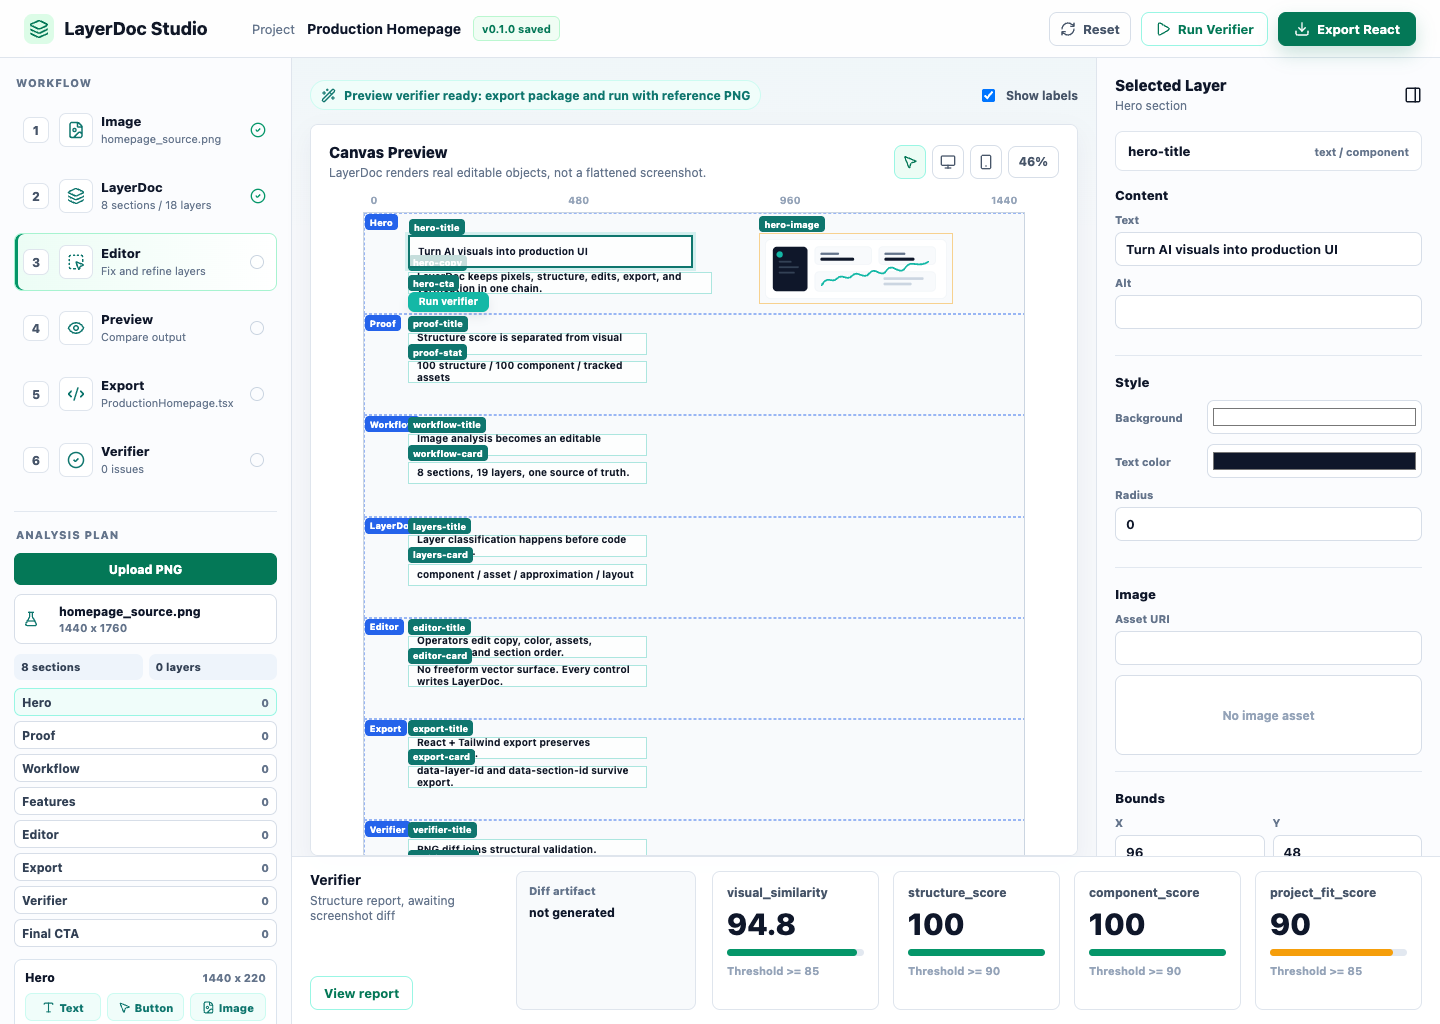
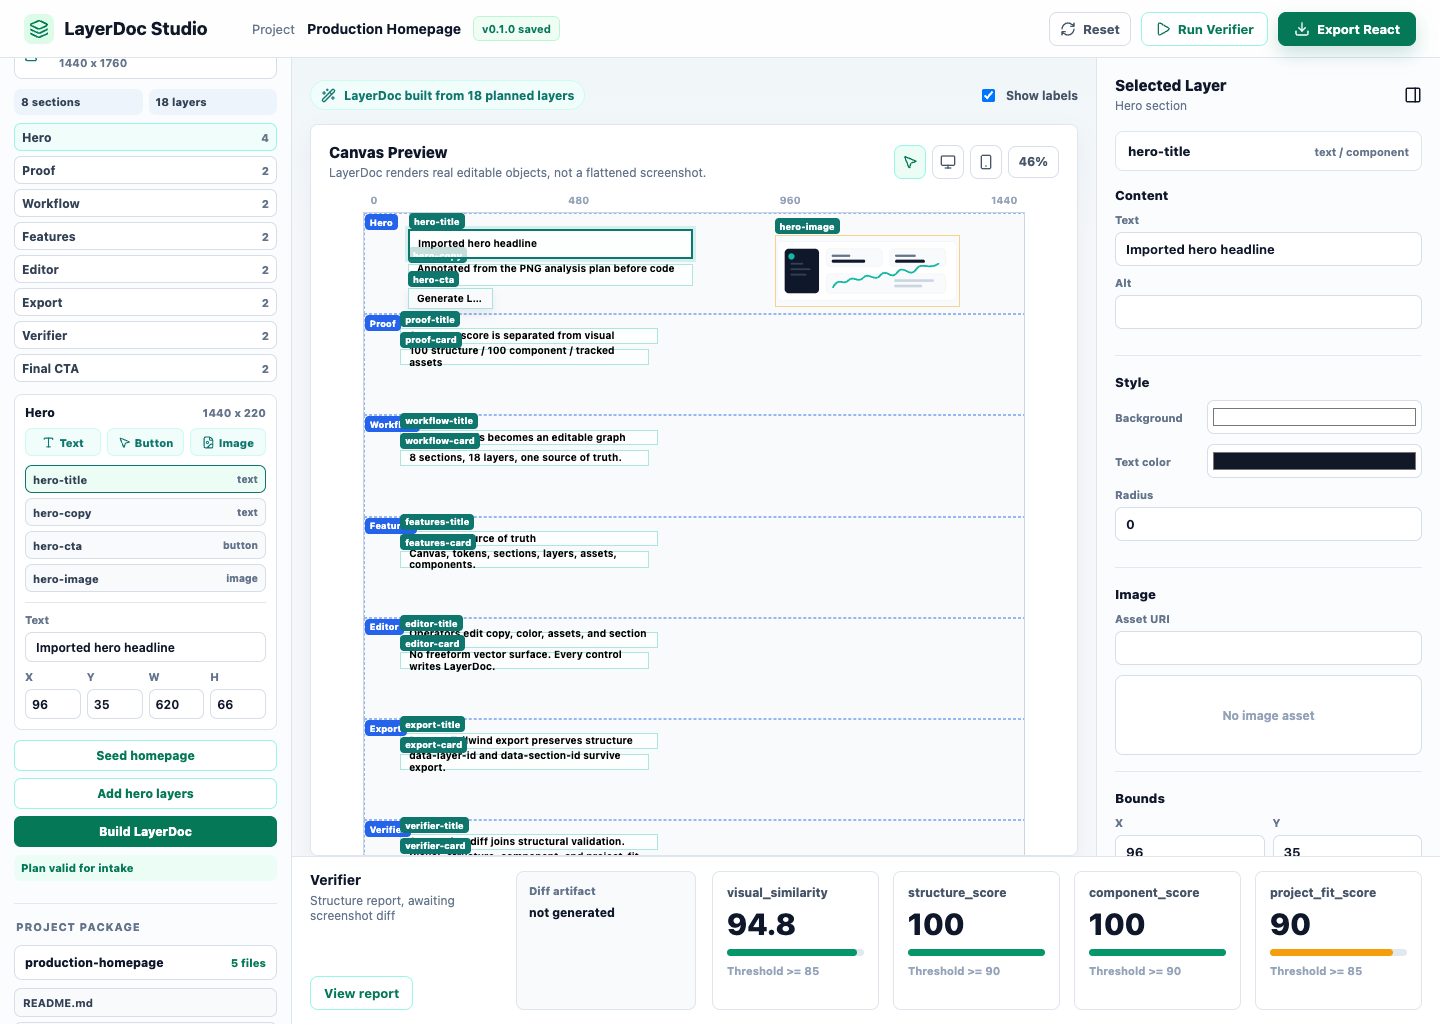
Add full homepage annotation seeding

diff --git a/src/app/intakeWorkspace.ts b/src/app/intakeWorkspace.ts
@@ -181,6 +181,85 @@ function createManualLayer(plan: HomepageAnalysisPlan, sectionId: string, kind: 
   };
 }
 
+function seededSectionCopy(sectionId: string, sectionName: string): { title: string; detail: string; detailKind?: ManualAnalysisLayerKind } {
+  const copy: Record<string, { title: string; detail: string; detailKind?: ManualAnalysisLayerKind }> = {
+    proof: {
+      title: "Structure score is separated from visual",
+      detail: "100 structure / 100 component / tracked assets"
+    },
+    workflow: {
+      title: "Image analysis becomes an editable graph",
+      detail: "8 sections, 18 layers, one source of truth."
+    },
+    features: {
+      title: "LayerDoc source of truth",
+      detail: "Canvas, tokens, sections, layers, assets, components."
+    },
+    editor: {
+      title: "Operators edit copy, color, assets, and section order.",
+      detail: "No freeform vector surface. Every control writes LayerDoc."
+    },
+    export: {
+      title: "React + Tailwind export preserves structure",
+      detail: "data-layer-id and data-section-id survive export."
+    },
+    verifier: {
+      title: "Screenshot diff joins structural validation.",
+      detail: "Visual, structure, component, and project-fit scores."
+    },
+    "final-cta": {
+      title: "Turn the approved visual into a project package.",
+      detail: "Export React",
+      detailKind: "button"
+    }
+  };
+
+  return copy[sectionId] ?? {
+    title: `${sectionName} becomes editable`,
+    detail: "Classified layer ready for LayerDoc export."
+  };
+}
+
+function seededSectionLayer(plan: HomepageAnalysisPlan, sectionId: string, kind: "title" | "detail"): PngIntakeLayerPlan {
+  const section = sectionById(plan, sectionId);
+  const copy = seededSectionCopy(sectionId, section.name);
+  const gutter = Math.min(80, Math.max(24, Math.round(section.bounds.width * 0.055)));
+  const titleBounds = clampRectToSection(
+    {
+      x: section.bounds.x + gutter,
+      y: section.bounds.y + Math.min(36, Math.max(14, Math.round(section.bounds.height * 0.14))),
+      width: Math.min(560, section.bounds.width - gutter * 2),
+      height: 34
+    },
+    section.bounds
+  );
+  const detailBounds = clampRectToSection(
+    {
+      x: titleBounds.x,
+      y: titleBounds.y + titleBounds.height + 10,
+      width: kind === "detail" && copy.detailKind === "button" ? Math.min(184, titleBounds.width) : Math.min(540, titleBounds.width),
+      height: kind === "detail" && copy.detailKind === "button" ? 44 : 36
+    },
+    section.bounds
+  );
+
+  if (kind === "title") {
+    return {
+      id: `${sectionId}-title`,
+      kind: "text",
+      bounds: titleBounds,
+      text: copy.title
+    };
+  }
+
+  return {
+    id: `${sectionId}-${copy.detailKind === "button" ? "button" : "card"}`,
+    kind: copy.detailKind ?? "text",
+    bounds: detailBounds,
+    text: copy.detail
+  };
+}
+
 function toManifest(intake: IntakeWorkspace): ImageAnalysisManifest {
   return {
     name: intake.analysisPlan.name,
@@ -289,6 +368,22 @@ export function addHeroAnnotationSet(workspace: IntakeWorkspace): IntakeWorkspac
   });
 
   return materialize(workspace.sourceImage, plan, sectionId, "hero-title");
+}
+
+export function seedHomepageAnnotations(workspace: IntakeWorkspace): IntakeWorkspace {
+  let next = addHeroAnnotationSet(workspace);
+  let plan = next.analysisPlan;
+
+  for (const section of plan.sections) {
+    if (section.id === "hero") {
+      continue;
+    }
+
+    plan = addLayerIfMissing(plan, section.id, seededSectionLayer(plan, section.id, "title"));
+    plan = addLayerIfMissing(plan, section.id, seededSectionLayer(plan, section.id, "detail"));
+  }
+
+  return materialize(workspace.sourceImage, plan, "hero", "hero-title");
 }
 
 export function buildWorkspaceFromIntake(workspace: IntakeWorkspace): EditorWorkspace {

diff --git a/src/app/App.tsx b/src/app/App.tsx
@@ -38,6 +38,7 @@ import {
   createIntakeWorkspace,
   selectIntakeLayer,
   selectIntakeSection,
+  seedHomepageAnnotations,
   updateManualAnalysisLayer,
   type IntakeWorkspace,
   type ManualAnalysisLayerKind
@@ -541,6 +542,9 @@ function AnalysisPlanPanel({
         ) : null}
       </div>
       <div className="analysis-actions">
+        <button type="button" onClick={() => onChange(seedHomepageAnnotations(intake))}>
+          Seed homepage
+        </button>
         <button type="button" onClick={() => onChange(addHeroAnnotationSet(intake))}>
           Add hero layers
         </button>
